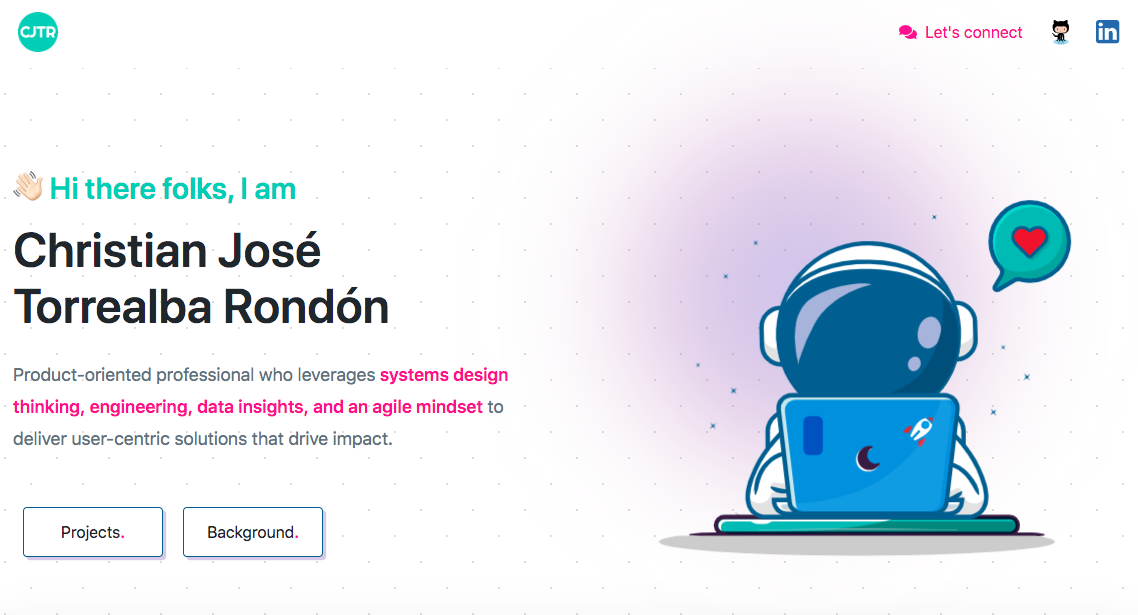
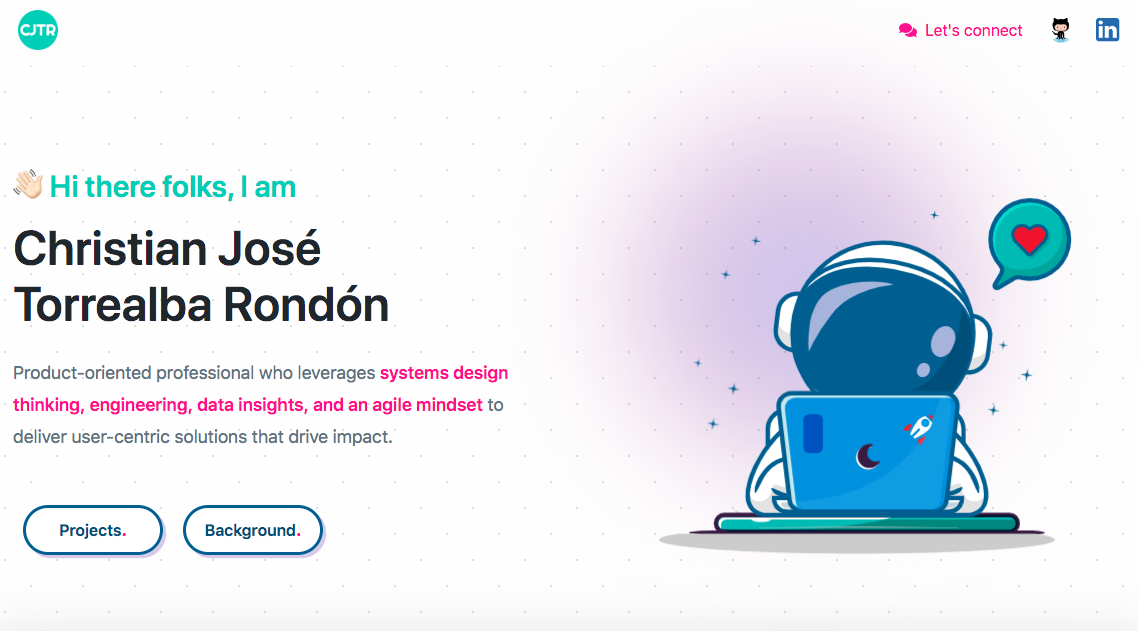
Fix styles and update image

diff --git a/assets/custom.css b/assets/custom.css
@@ -909,7 +909,7 @@ footer a {
 }
 
 .about-me-container {
-    padding-top: 50px;
+    padding-top: 120px;
     padding-bottom: 50px;
 }
 
